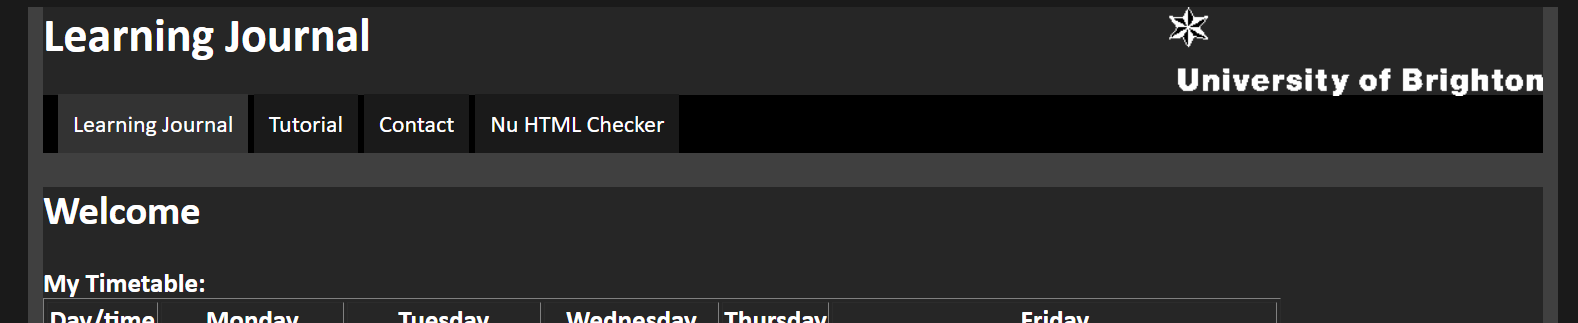
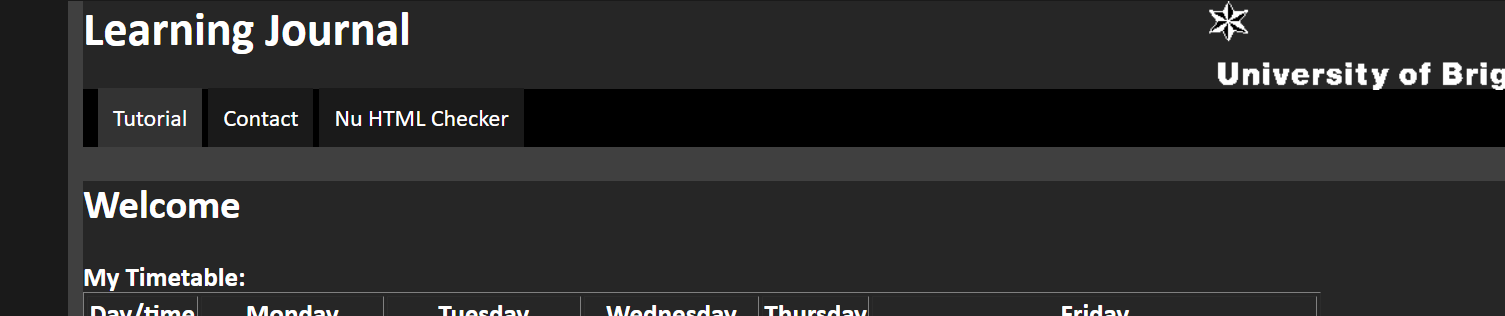
week 4 fixes

Changed region(s): [[0.0, 0.0, 1.0, 1.0], [0.7183, 0.0, 0.8432, 0.1424], [0.6246, 0.9684, 0.7495, 1.0]]

diff --git a/index.html b/index.html
@@ -23,7 +23,7 @@
         <main>
             <h2>Welcome</h2>
             <strong>My Timetable:</strong>
-            <table border="1">
+            <table>
                 <tr>
                   <th>Day/time</th>
                   <th>Monday</th>
@@ -209,14 +209,15 @@
                 CSS has inheritance, meaning that if an element has style assigned in a stylesheet, this style will be inherited into common components of its child elements, for example setting the font of the body, will change the font on the entire page. 
             </p>
             <p>
-                As I had already styled some aspects of the page I decided to spend time this week altering the style of the page, basically making it dark mode, I also created a proper Menu. 
+                As I had already styled some aspects of the page I decided to spend time this week altering the style of the page, basically making it dark mode, I also created a proper Menu with button that change colour when hovered over.
             </p>
 
             <img class="blogImage" src="./images/week4DarkmodeMenu.png" alt="New Darktheme and Menu">
     
             <h4>Sources:</h4>
             <ul>
-
+                <li><a href="https://www.w3schools.com/colors/colors_picker.asp">https://www.w3schools.com/colors/colors_picker.asp</a></li>
+                <li><a href="https://www.w3schools.com/css/default.asp">https://www.w3schools.com/css/default.asp</a></li>
             </ul>
 
         </article>

diff --git a/css/stylesheet.css b/css/stylesheet.css
@@ -5,13 +5,13 @@ body
     color:white;
 }
 .wrapper {
-    background-color: #404040;
+    background-color: #1a1a1a;
     
     max-width: 1000px;
     margin-right: auto;
     margin-left: auto;
-    padding-right: 10px;
-    padding-left: 10px;
+    /* padding-right: 10px;
+    padding-left: 10px; */
     padding-bottom: 10px;
 }
 main  {
@@ -71,6 +71,7 @@ nav	{
     margin-right: 0px;
     float:right;
     width: 25%;
+    padding-right: 10px;
 }
 .blogImage
 {
@@ -79,10 +80,10 @@ nav	{
     padding-right: 10px;
     padding-left: 10px;
 }
-table
-{
+table, th, td {
     background-color: #262626;
-}
+    border: 1px solid;
+  }
 .buttonBar
 {
     background-color: black;
